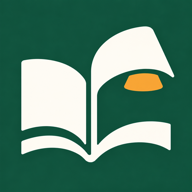
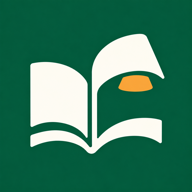
feat(reader-web): 按留白参考更新页灯图标套件

Changed region(s): [[0.0938, 0.125, 0.9062, 0.8438], [0.4062, 0.375, 0.4375, 0.4062]]

diff --git a/apps/reader-web/DESIGN.md b/apps/reader-web/DESIGN.md
@@ -6,7 +6,7 @@
 
 The brand name is “页灯”, with the tagline “为阅读，留一盏灯。”. The approved mark merges an open book with a reading lamp, using forest green and a warm amber light. Use the opaque green icon on both light and dark surfaces; the existing reading and action theme tokens remain unchanged.
 
-Original PNGs are preserved in `assets/brand/`: `yedeng-concept-original.png` is the approved identity presentation, `yedeng-mark-original.png` is the transparent symbol, and `yedeng-app-icon-original.png` preserves the initial opaque icon. `yedeng-app-icon-v2-original.png` enlarges the symbol to about 80% width for small-size legibility. Production PNGs in `public/static/pwa/` are resized from v2 to 32, 180, 192 and 512 pixels. The separate `icon-maskable-512.png` uses the initial master with additional safe space for circular system masks. The transparent 256px symbol is in `public/static/brand/yedeng-mark.png`. Preserve originals when making future exports; do not enlarge the production files to create new masters.
+Original PNGs are preserved in `assets/brand/`: `yedeng-concept-original.png` is the approved identity presentation, `yedeng-mark-original.png` is the initial transparent symbol, and the `yedeng-app-icon-*-original.png` files preserve the opaque icon masters and padding explorations. The current opaque master, `yedeng-app-icon-padding-reference-original.png`, keeps the approved book-and-lamp design while matching the selected padding reference. Production icons in `public/static/pwa/` are resized from this master at 32, 180, 192 and 512 pixels; the `icon-maskable-512.png` entry uses the same padding with its separate manifest purpose. `yedeng-mark-padding-reference-original.png` is the matching transparent symbol master, exported at 256px to `public/static/brand/yedeng-mark.png`. Preserve originals when making future exports; do not enlarge the production files to create new masters.
 
 ## 2. Color palette and roles
 
